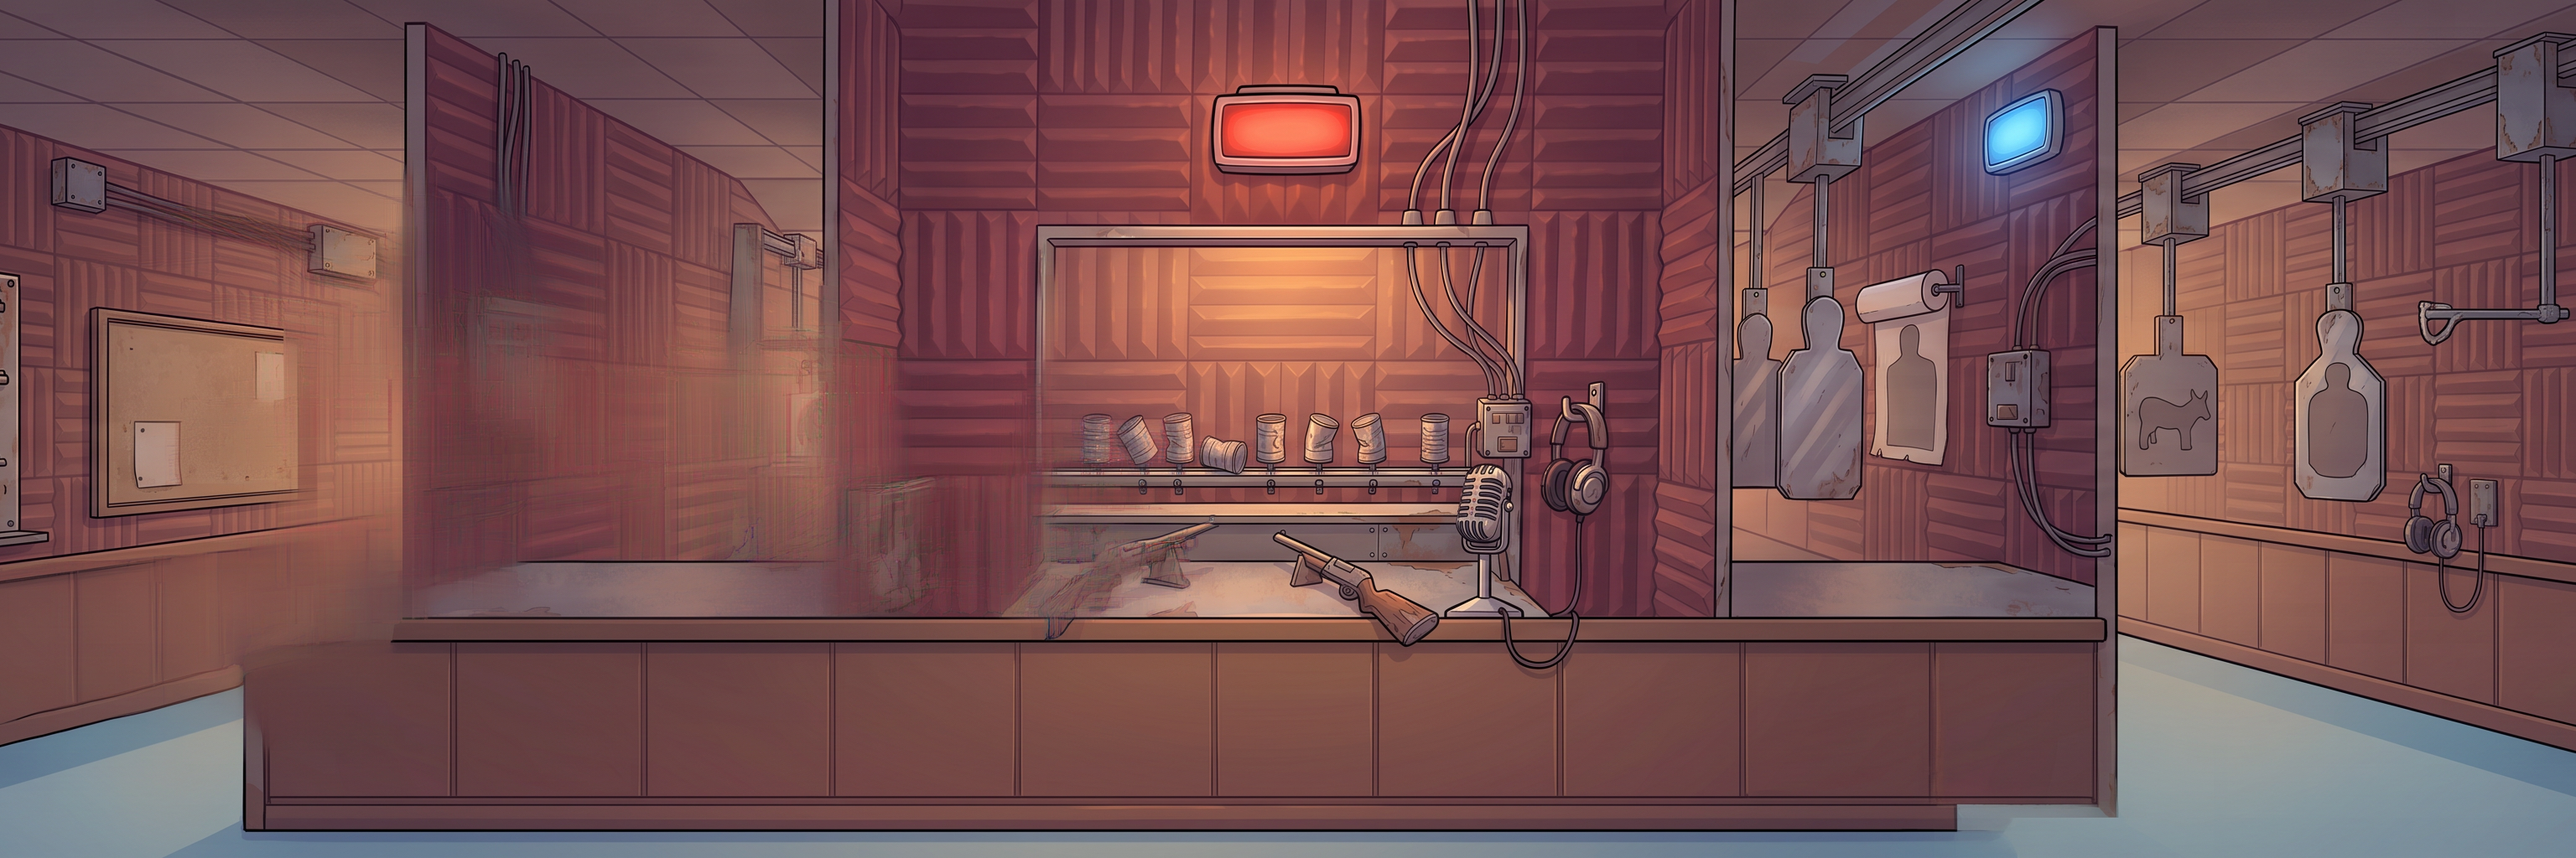
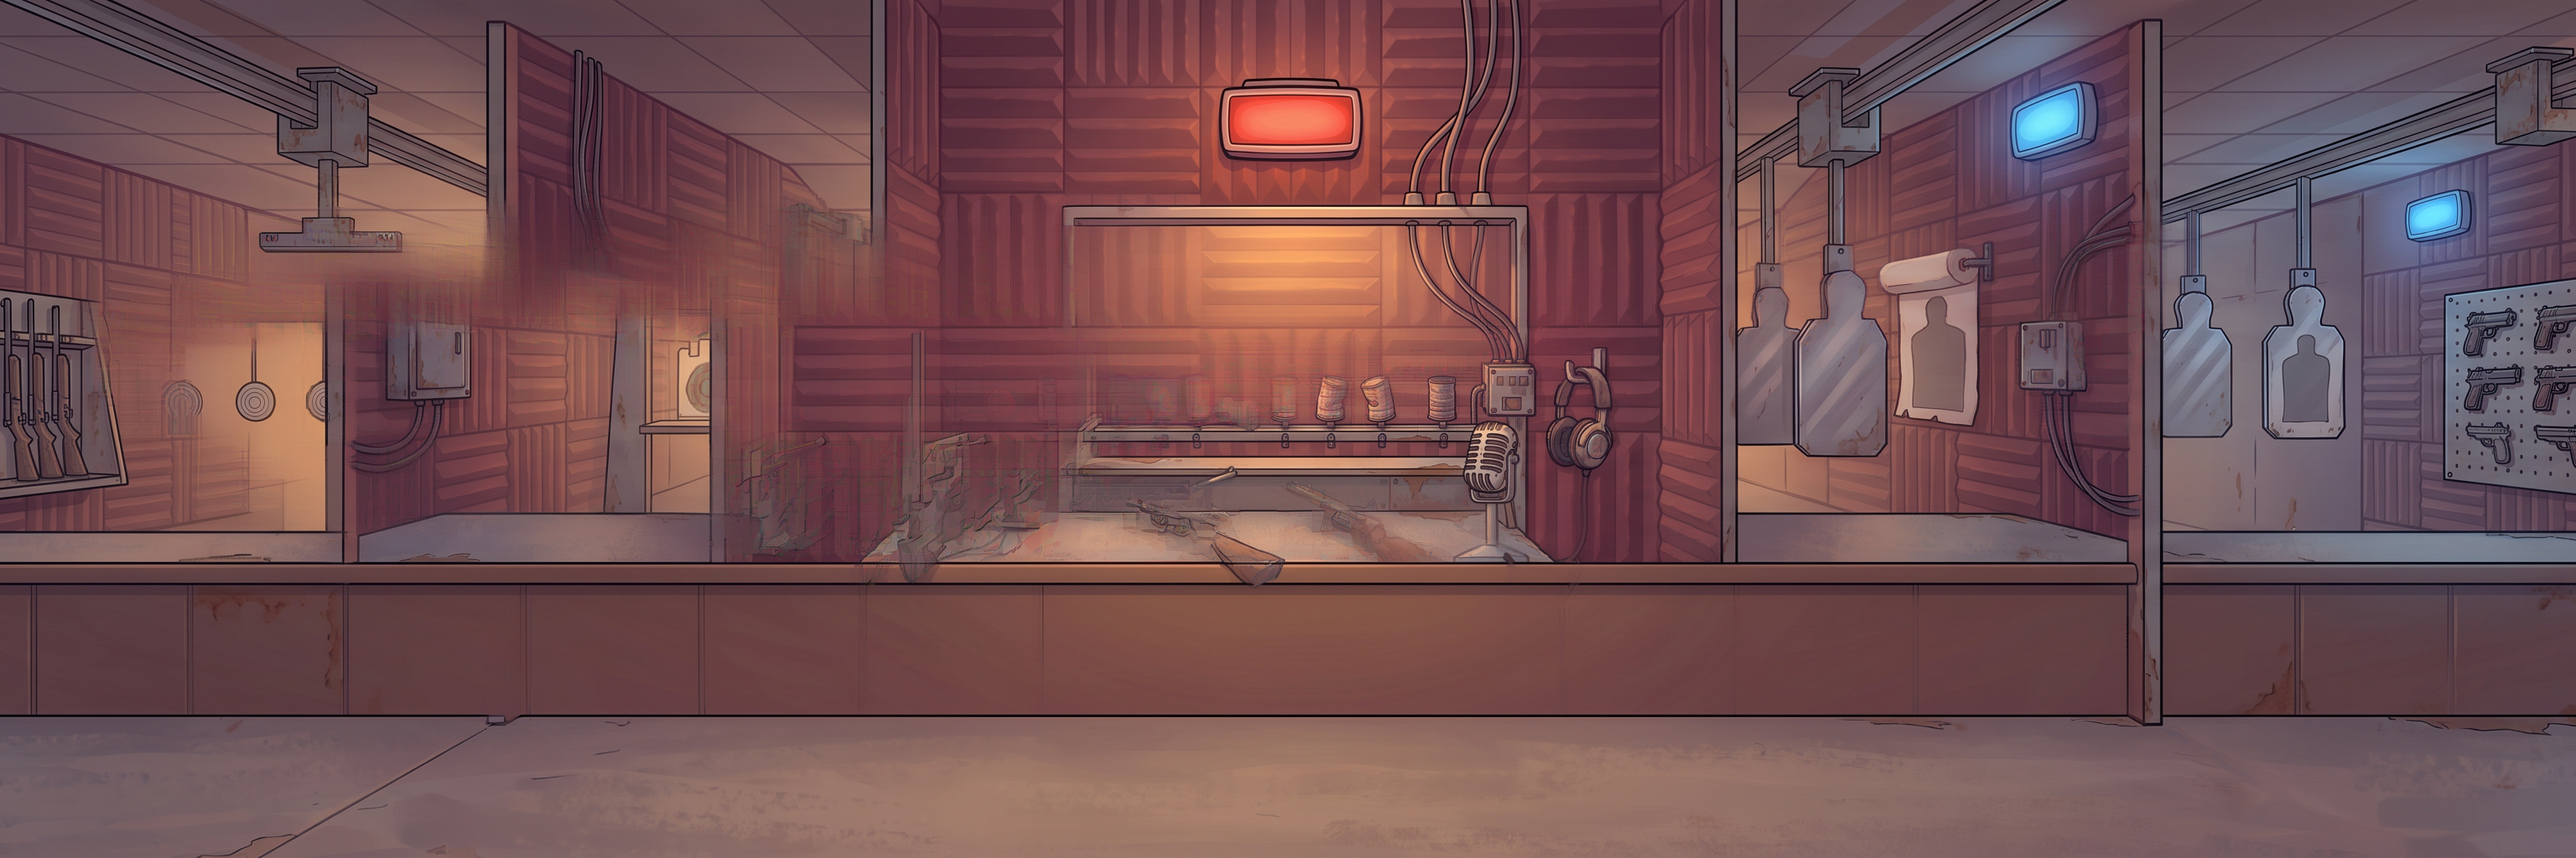
Replace four weakest wide walls with cleaner regenerations
Claude-Session: https://claude.ai/code/session_01A4TFeiFZYtvFdAABaD22tt

diff --git a/docs/art/ART-LIST.md b/docs/art/ART-LIST.md
@@ -460,6 +460,7 @@ Updated by the art session as batches land. "Shows up on its own" means the code
 | 2026-09-28 | §2b tool sheets: `fight_extinguish` and `fight_repair` for male and female residents (4), M9 Halcyon Fizz bottle icon (1) | `resident_m`, `resident_f`, `ui_icons` | Needs hookup (animation keys `fight_extinguish`, `fight_repair`; icon `fizz`) |
 | 2026-09-28 | Fixes: quarters level 1 (single, w2, w3) redone with a wood plank floor and a flat rug (the rug read as hanging on the wall); toolbar/UI icons redone clean: `residents`, `goals`, `deep_day_one`, `ruined`, `room`, and `fizz` without an outer glow | `room_quarters`, `ui_icons` | Shows up on its own |
 | 2026-09-28 | Legend tool sheets: `fight_extinguish` and `fight_repair` for all 11 legends (22), same 12-frame template as the resident sheets | `legend_<id>` (all 11) | Needs hookup (animation keys `fight_extinguish`, `fight_repair` per legend) |
+| 2026-09-28 | Reroll of four weakest 3x walls (shooting gallery L1/L3, geothermal L3, quarters L3) | art/raw/room_*/ | npm run sprites |
 
 Notes on the wide walls: `w2` is generated at 21:9 from the level's single painting, then cropped to 2:1. `w3` is generated at 4:1 from that level's `w2`, then cropped to 3:1. The image tool sometimes leaves a soft, ghosted patch at 4:1; those were repaired with an edit pass or by copying a sharp neighbour, and a few small soft spots remain at the edges of `quarters` level 1 and 2 `w3` and `canteen` level 2 `w3`.
 

diff --git a/docs/art/SPRITE-HANDOFF.md b/docs/art/SPRITE-HANDOFF.md
@@ -238,3 +238,4 @@ We need commercial use rights with no attribution or exclusivity strings. Record
 | Resident tool sheets (extinguisher, repair) and Fizz bottle icon | artlist.io, Nano Banana 2 I2I 2K | AI Suite plan (credits) | 2026-09-28 | ☐ |
 | Quarters level 1 floor fix and six redone UI icons | artlist.io, Nano Banana 2 I2I 2K | AI Suite plan (credits) | 2026-09-28 | ☐ |
 | Legend extinguisher and repair sheets (22) | artlist.io, Nano Banana 2 I2I 2K | AI Suite plan (credits) | 2026-09-28 | ☐ |
+| Generated for this project; no third-party assets | artlist.io, Nano Banana 2 I2I 2K | AI Suite plan (credits) | 2026-09-28 | ☐ |
